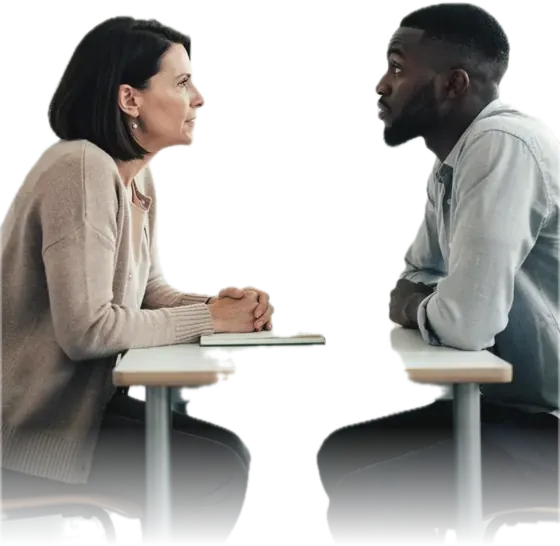
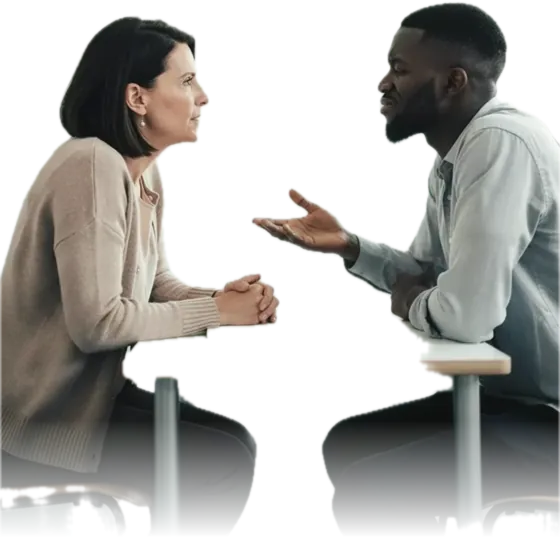
feat(imagery): make the week one patient, and give the hero real resolution
Two fixes, both of which needed a different tool than text prompting.

The week is one person now. "Between the sessions" is one patient's week across
four frames, and it was four different men who happened to look alike, plus two
different therapists in the two session frames. Text prompts cannot hold a face
across four generations, so this uses nano-banana in edit mode with the Saturday
frame as a character reference: it is the only one with a clear, frontal, evenly
lit face. Thursday and next Thursday take a second reference so the therapist
matches too. Saturday itself is untouched, being the reference.

The hero was soft, not grainy. Its interior grain measures 3.73, the lowest in
the set, so nothing was wrong with the noise. She occupied roughly 400px of a
1536-wide landscape frame, so lifting her out and rendering her 500px tall
upscaled her about 2.25x, which is what smeared the skin and hair. The full-bleed
hero hid it because she was small inside a wide frame; the cut-out exposed it.
She is re-framed portrait with the same face kept by reference, so she fills the
frame and the cut-out has pixels to work with.

The source is renamed practice-hero, since practice-hero-1536 described
dimensions that no longer apply, and the three old landscape variants go.

Build green against the production API: 66 pages, check:output passes.

diff --git a/src/lib/cutouts.generated.ts b/src/lib/cutouts.generated.ts
@@ -7,10 +7,11 @@ export const CUTOUTS: Record<string, { w: number; h: number }> = {
   "patients-hero": { w: 900, h: 785 },
   "patients-listen": { w: 900, h: 1127 },
   "practice-hero-1536": { w: 900, h: 973 },
+  "practice-hero": { w: 900, h: 1056 },
   "slps-family": { w: 900, h: 966 },
   "slps-hero": { w: 900, h: 1237 },
   "week-alone": { w: 900, h: 851 },
-  "week-next": { w: 900, h: 878 },
-  "week-phone": { w: 900, h: 1307 },
-  "week-session": { w: 900, h: 981 },
+  "week-next": { w: 900, h: 865 },
+  "week-phone": { w: 900, h: 1362 },
+  "week-session": { w: 900, h: 732 },
 };

diff --git a/src/components/Hero.tsx b/src/components/Hero.tsx
@@ -37,7 +37,7 @@ import { useT } from "@/i18n";
  */
 
 const EASE = "cubic-bezier(0.22, 1, 0.36, 1)";
-const HERO_CUTOUT = "practice-hero-1536";
+const HERO_CUTOUT = "practice-hero";
 
 const Line = ({
   children,
